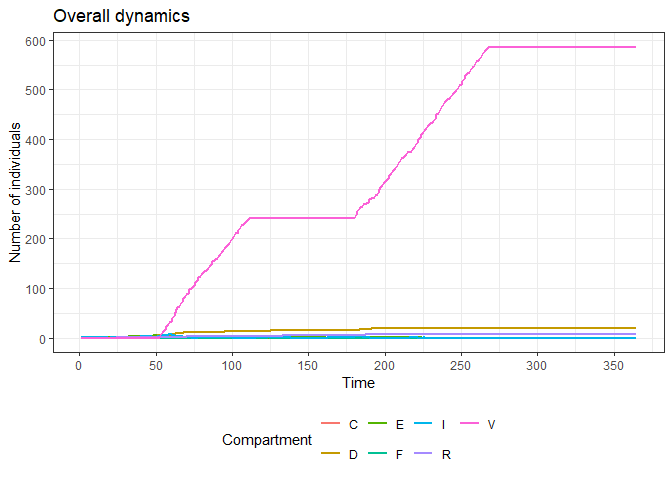
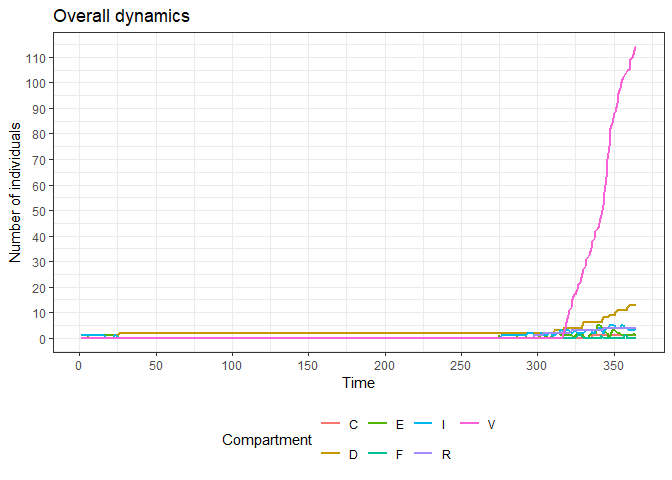
recompiled document

diff --git a/README.md b/README.md
@@ -1,3 +1,6 @@
+A stochastic, discrete compartmental model for Ebola transmission
+================
+Thibaut Jombart
 
 ## Required libraries
 
@@ -5,8 +8,19 @@ We load required libraries:
 
 ``` r
 library(tidyverse)
+#> ── Attaching core tidyverse packages ──────────────────────── tidyverse 2.0.0 ──
+#> ✔ dplyr     1.1.4     ✔ readr     2.1.5
+#> ✔ forcats   1.0.0     ✔ stringr   1.5.1
+#> ✔ ggplot2   3.5.2     ✔ tibble    3.2.1
+#> ✔ lubridate 1.9.4     ✔ tidyr     1.3.1
+#> ✔ purrr     1.0.4     
+#> ── Conflicts ────────────────────────────────────────── tidyverse_conflicts() ──
+#> ✖ dplyr::filter() masks stats::filter()
+#> ✖ dplyr::lag()    masks stats::lag()
+#> ℹ Use the conflicted package (<http://conflicted.r-lib.org/>) to force all conflicts to become errors
 library(rio)
 library(here)
+#> here() starts at C:/dev/geomatys/paper_ebola_model
 library(odin)
 ```
 
@@ -17,8 +31,22 @@ The model is implemented in the *odin* script *ebola.R*:
 ``` r
 path_model <- here::here("odin", "ebola.R")
 model_generator <- odin::odin(path_model)
+#> Loading required namespace: pkgbuild
 #> Generating model in c
-#> Using cached model
+#> ℹ Re-compiling ebolae1b5f94f (debug build)
+#> ── R CMD INSTALL ───────────────────────────────────────────────────────────────
+#>   ─  installing *source* package 'ebolae1b5f94f' ...
+#>      ** this is package 'ebolae1b5f94f' version '0.0.1'
+#>    ** using staged installation
+#>      ** libs
+#>      using C compiler: 'gcc.exe (GCC) 14.2.0'
+#>      gcc  -I"C:/PROGRA~1/R/R-45~1.1/include" -DNDEBUG     -I"C:/rtools45/x86_64-w64-mingw32.static.posix/include"      -O2 -Wall -std=gnu2x -gdwarf-2 -mfpmath=sse -msse2 -mstackrealign   -UNDEBUG -Wall -pedantic -g -O0 -c odin.c -o odin.o
+#>      gcc  -I"C:/PROGRA~1/R/R-45~1.1/include" -DNDEBUG     -I"C:/rtools45/x86_64-w64-mingw32.static.posix/include"      -O2 -Wall -std=gnu2x -gdwarf-2 -mfpmath=sse -msse2 -mstackrealign   -UNDEBUG -Wall -pedantic -g -O0 -c registration.c -o registration.o
+#>      gcc -shared -static-libgcc -o ebolae1b5f94f.dll tmp.def odin.o registration.o -LC:/rtools45/x86_64-w64-mingw32.static.posix/lib/x64 -LC:/rtools45/x86_64-w64-mingw32.static.posix/lib -LC:/PROGRA~1/R/R-45~1.1/bin/x64 -lR
+#>      installing to C:/Users/thiba/AppData/Local/Temp/Rtmpsxco1l/devtools_install_58ec303b5c5e/00LOCK-file58ec777d3576/00new/ebolae1b5f94f/libs/x64
+#>   ─  DONE (ebolae1b5f94f)
+#> 
+#> ℹ Loading ebolae1b5f94f
 class(model_generator)
 #> [1] "odin_generator"
 model_generator
@@ -75,15 +103,14 @@ dim(patches)
 #> [1] 857   9
 head(patches)
 #> # A tibble: 6 × 9
-#>      V1     x     y           eta pop_size area_sqkm  cell.id mean_intros
-#>   <int> <dbl> <dbl>         <dbl>    <int>     <dbl>    <int>       <dbl>
-#> 1     1  19.1 -4.02 0.00000000302     1114      21.3 18459819    0.00123 
-#> 2     2  19.2 -4.02 0.00000000269     3357      21.3 18459820    0.00330 
-#> 3     3  19.2 -4.02 0.00000000177     2070      21.3 18459821    0.00134 
-#> 4     4  19.2 -4.02 0.00000000189      155      21.3 18459822    0.000107
-#> 5     5  19.3 -4.02 0.00000000301     2911      21.3 18459823    0.00320 
-#> 6     6  19.3 -4.02 0.00000000302      859      21.3 18459824    0.000945
-#> # ℹ 1 more variable: weight_intros <dbl>
+#>      V1     x     y     eta pop_size area_sqkm cell.id mean_intros weight_intros
+#>   <int> <dbl> <dbl>   <dbl>    <int>     <dbl>   <int>       <dbl>         <dbl>
+#> 1     1  19.1 -4.02 3.02e-9     1114      21.3  1.85e7    0.00123      0.000696 
+#> 2     2  19.2 -4.02 2.69e-9     3357      21.3  1.85e7    0.00330      0.00187  
+#> 3     3  19.2 -4.02 1.77e-9     2070      21.3  1.85e7    0.00134      0.000757 
+#> 4     4  19.2 -4.02 1.89e-9      155      21.3  1.85e7    0.000107     0.0000607
+#> 5     5  19.3 -4.02 3.01e-9     2911      21.3  1.85e7    0.00320      0.00181  
+#> 6     6  19.3 -4.02 3.02e-9      859      21.3  1.85e7    0.000945     0.000536
 ```
 
 We read in the connectivity matrix between the 857 populations
@@ -91,8 +118,7 @@ We read in the connectivity matrix between the 857 populations
 ``` r
 file_delta <- here::here("data", "delta_857.rds")
 delta <- rio::import(file_delta)
-#> Warning: Missing `trust` will be set to FALSE by default for RDS in
-#> 2.0.0.
+#> Warning: Missing `trust` will be set to FALSE by default for RDS in 2.0.0.
 dim(delta)
 #> [1] 857 857
 delta[1:4, 1:4]
@@ -223,7 +249,7 @@ reproducibility purpose only.
 set.seed(1)
 system.time(res <- model$run(1:365))
 #>    user  system elapsed 
-#>   13.92    0.07   14.06
+#>   14.09    0.08   14.28
 class(res)
 #> [1] "matrix" "array"
 dim(res)
@@ -251,6 +277,9 @@ or ‘response’ (value: 3).
 
 ### Time series
 
+Here we first sum compartments across all patches, and visualize the
+results as a time series:
+
 ``` r
 comps <- c("V", "E", "I", "F", "D", "C", "R")
 res_smry <- list()
@@ -265,7 +294,7 @@ head(res_smry)
 #> 2    2 0 0 1 0 0 0 0
 #> 3    3 0 0 1 0 0 0 0
 #> 4    4 0 0 1 0 0 0 0
-#> 5    5 0 1 1 0 0 0 0
+#> 5    5 0 0 1 0 0 0 0
 #> 6    6 0 1 1 0 0 0 0
 
 res_smry %>%
@@ -281,11 +310,20 @@ res_smry %>%
   scale_x_continuous(n.breaks = 10) + 
   scale_y_continuous(n.breaks = 10) +
   theme(legend.position = "bottom")
+#> Warning: Using `size` aesthetic for lines was deprecated in ggplot2 3.4.0.
+#> ℹ Please use `linewidth` instead.
+#> This warning is displayed once every 8 hours.
+#> Call `lifecycle::last_lifecycle_warnings()` to see where this warning was
+#> generated.
 ```
 
 <img src="figures/unnamed-chunk-9-1.png" width="65%" />
 
 ### Mapping total cases
+
+Here we first isolate all compartments corresponding to infections, and
+calculate total cases for every patch at the end of the simulation. Then
+we map the results:
 
 ``` r
 to_keep <- c(grep("^[EIDFRC]", colnames(res)))
